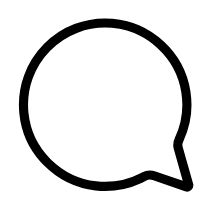
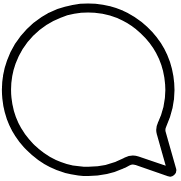
change like button to a row of buttons, and add comment button placeholder

Changed region(s): [[0.0, 0.0, 0.9945, 0.9945]]

diff --git a/frontend/components/post/feed/feed_item.jsx b/frontend/components/post/feed/feed_item.jsx
@@ -11,19 +11,26 @@ class FeedItem extends React.Component{
     }
 
     renderLikeButton(){
+        let likeButton
         if (this.props.liked){
-            return <img
-                className="like-button"
+            likeButton = <img
+                className="like-button button-image"
                 src={window.images.red_heart}
                 onClick={() => this.props.deleteLike(this.props.post.id)}
             />
         } else {
-            return <img
-                className="like-button"
+            likeButton = <img
+                className="like-button button-image"
                 src={window.images.heart}
                 onClick={() => this.props.createLike({ post_id: this.props.post.id })}
             />
         }
+        return(
+            <div className="button-row">
+                {likeButton}
+                <img className="button-image" src={window.images.comment} alt="non-functional comment button"/>
+            </div>
+        )
     }
 
     render(){

diff --git a/app/assets/stylesheets/feed.scss b/app/assets/stylesheets/feed.scss
@@ -43,7 +43,7 @@
 
         .item-user-description{
             display: flex;
-            margin-top: 10px;
+            padding-top: 12px;
         }
 
         .item-user-username{
@@ -57,9 +57,14 @@
             max-height: 700px;
         }
 
-        .like-button{
-            padding: 15px;
-            width: 30px;
+        .button-row{
+            padding-top: 12px;
+            padding-left: 15px;
+
+            .button-image{
+                width: 30px;
+                padding-right: 10px;
+            }
         }
 
         .like-button:hover{
@@ -67,6 +72,7 @@
         }
 
         .likes{
+            padding-top: 12px;
             padding-left: 15px; 
         }
 
